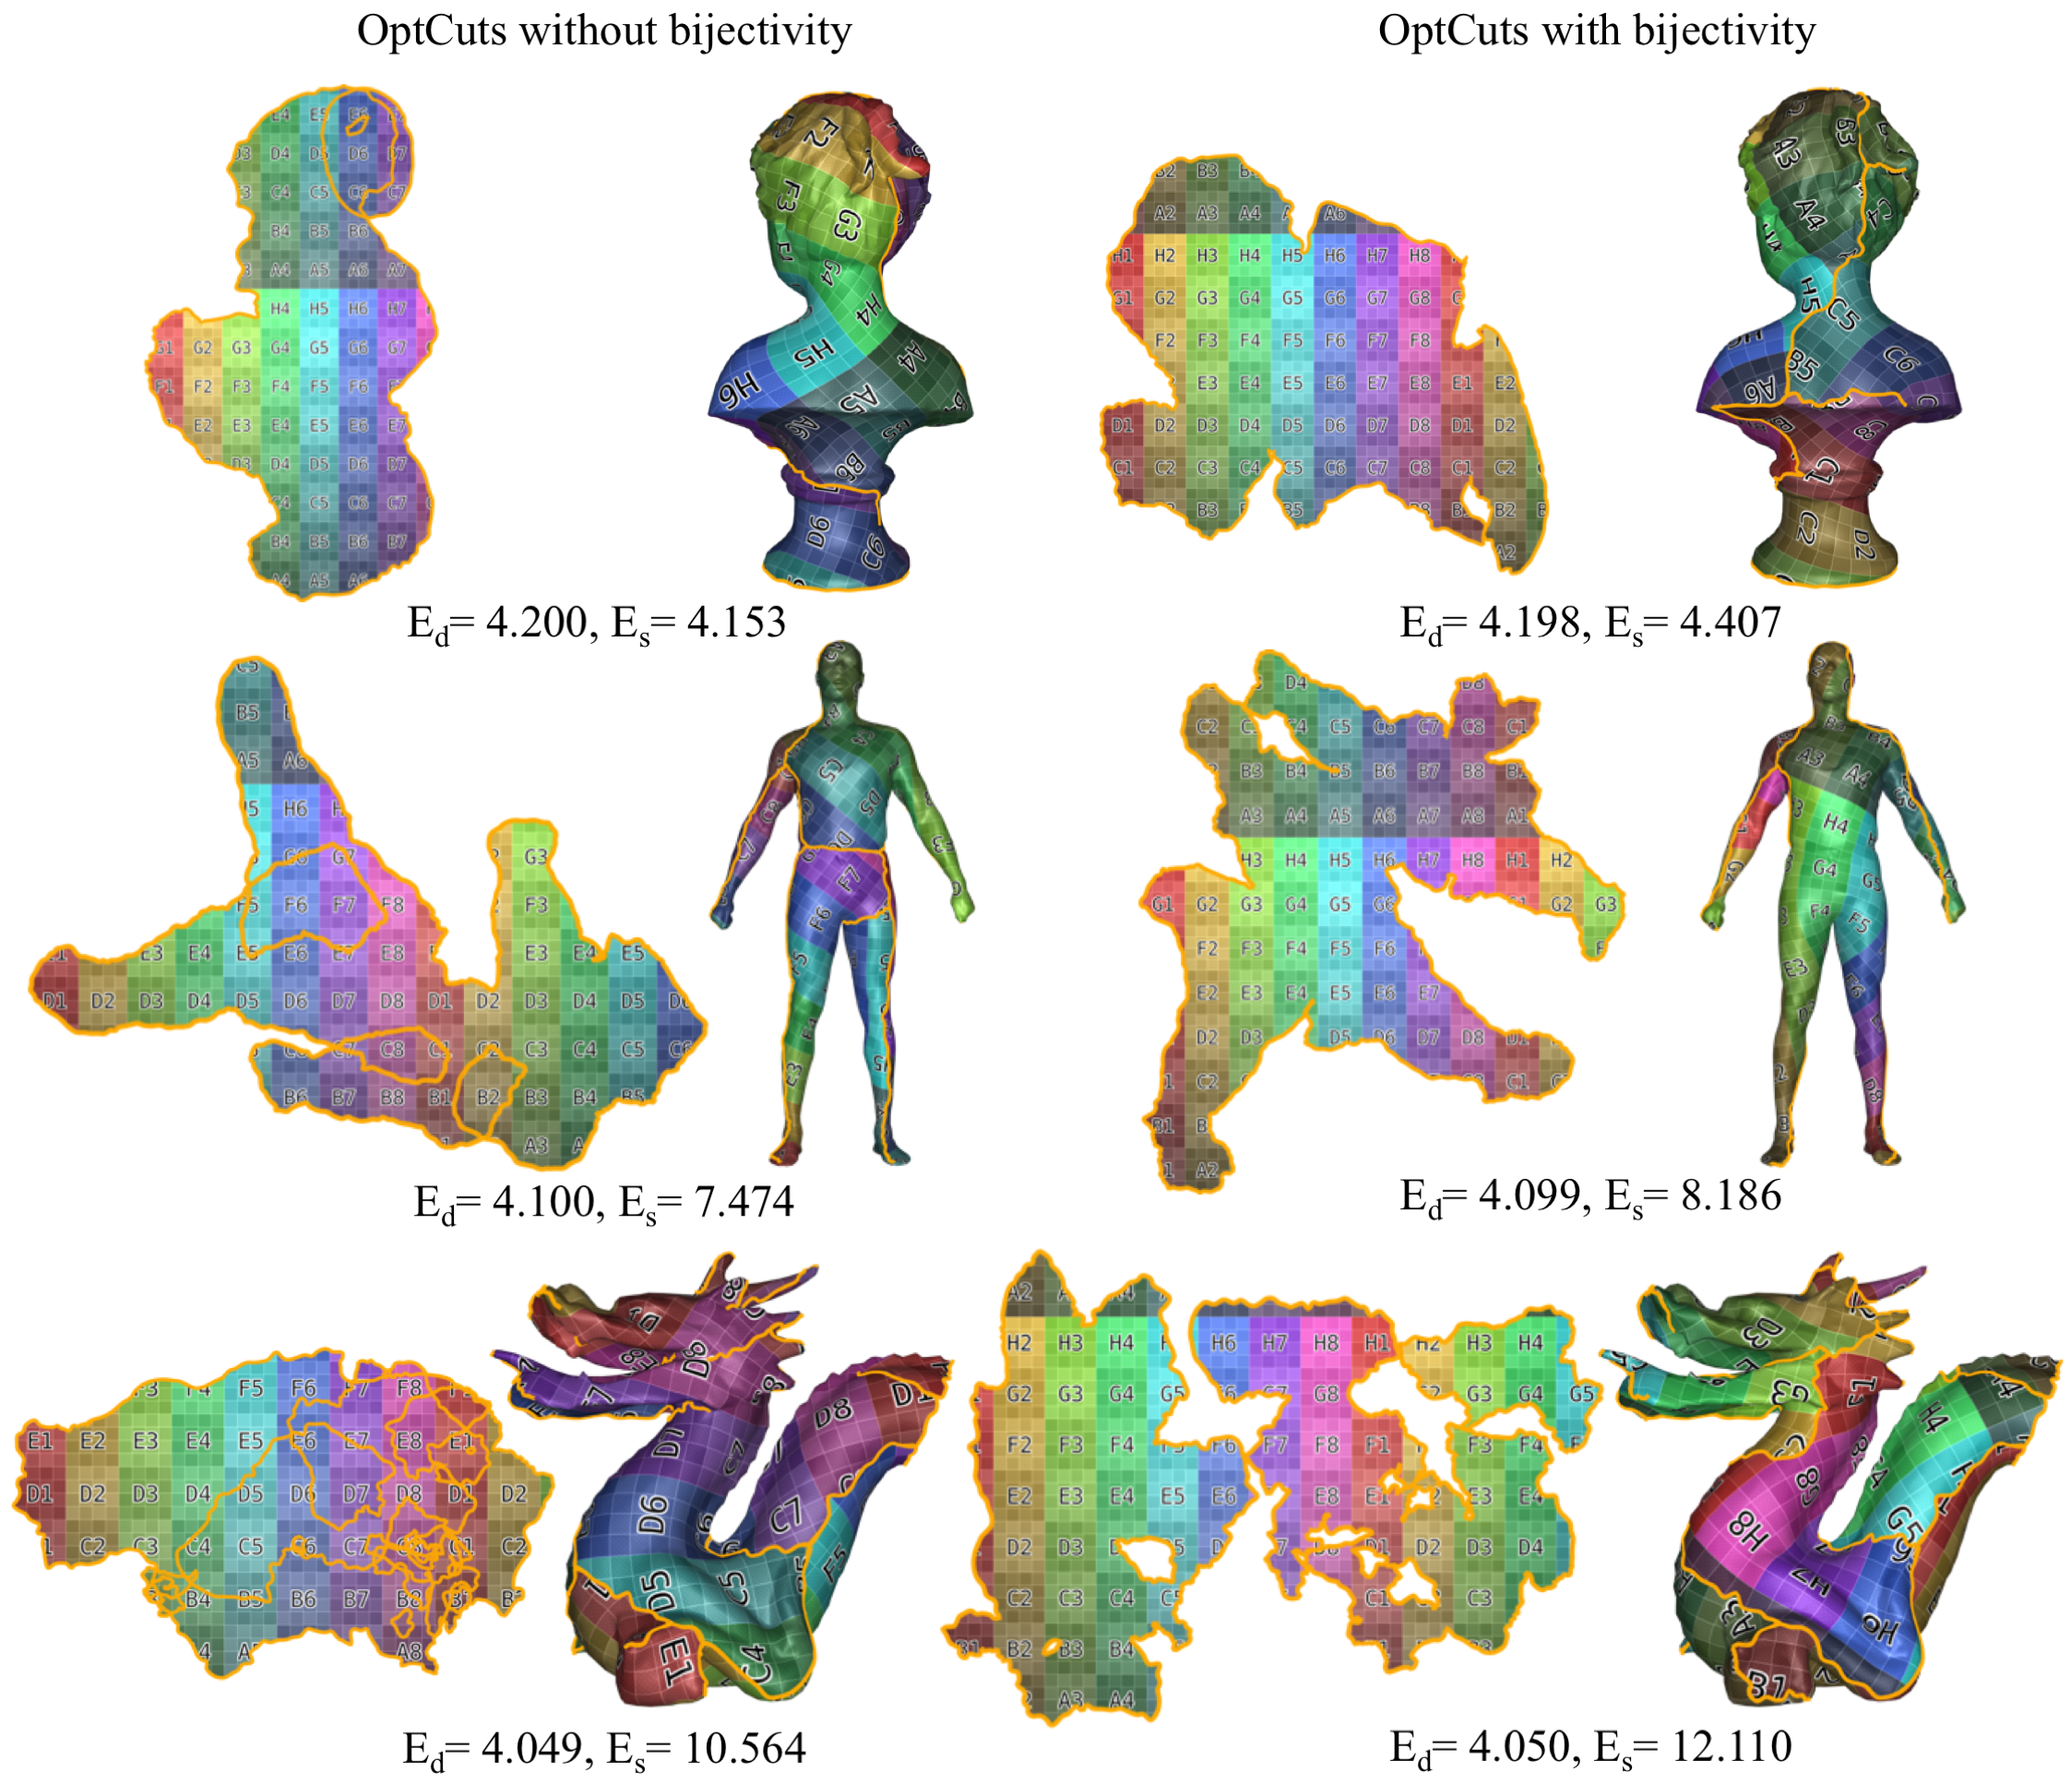
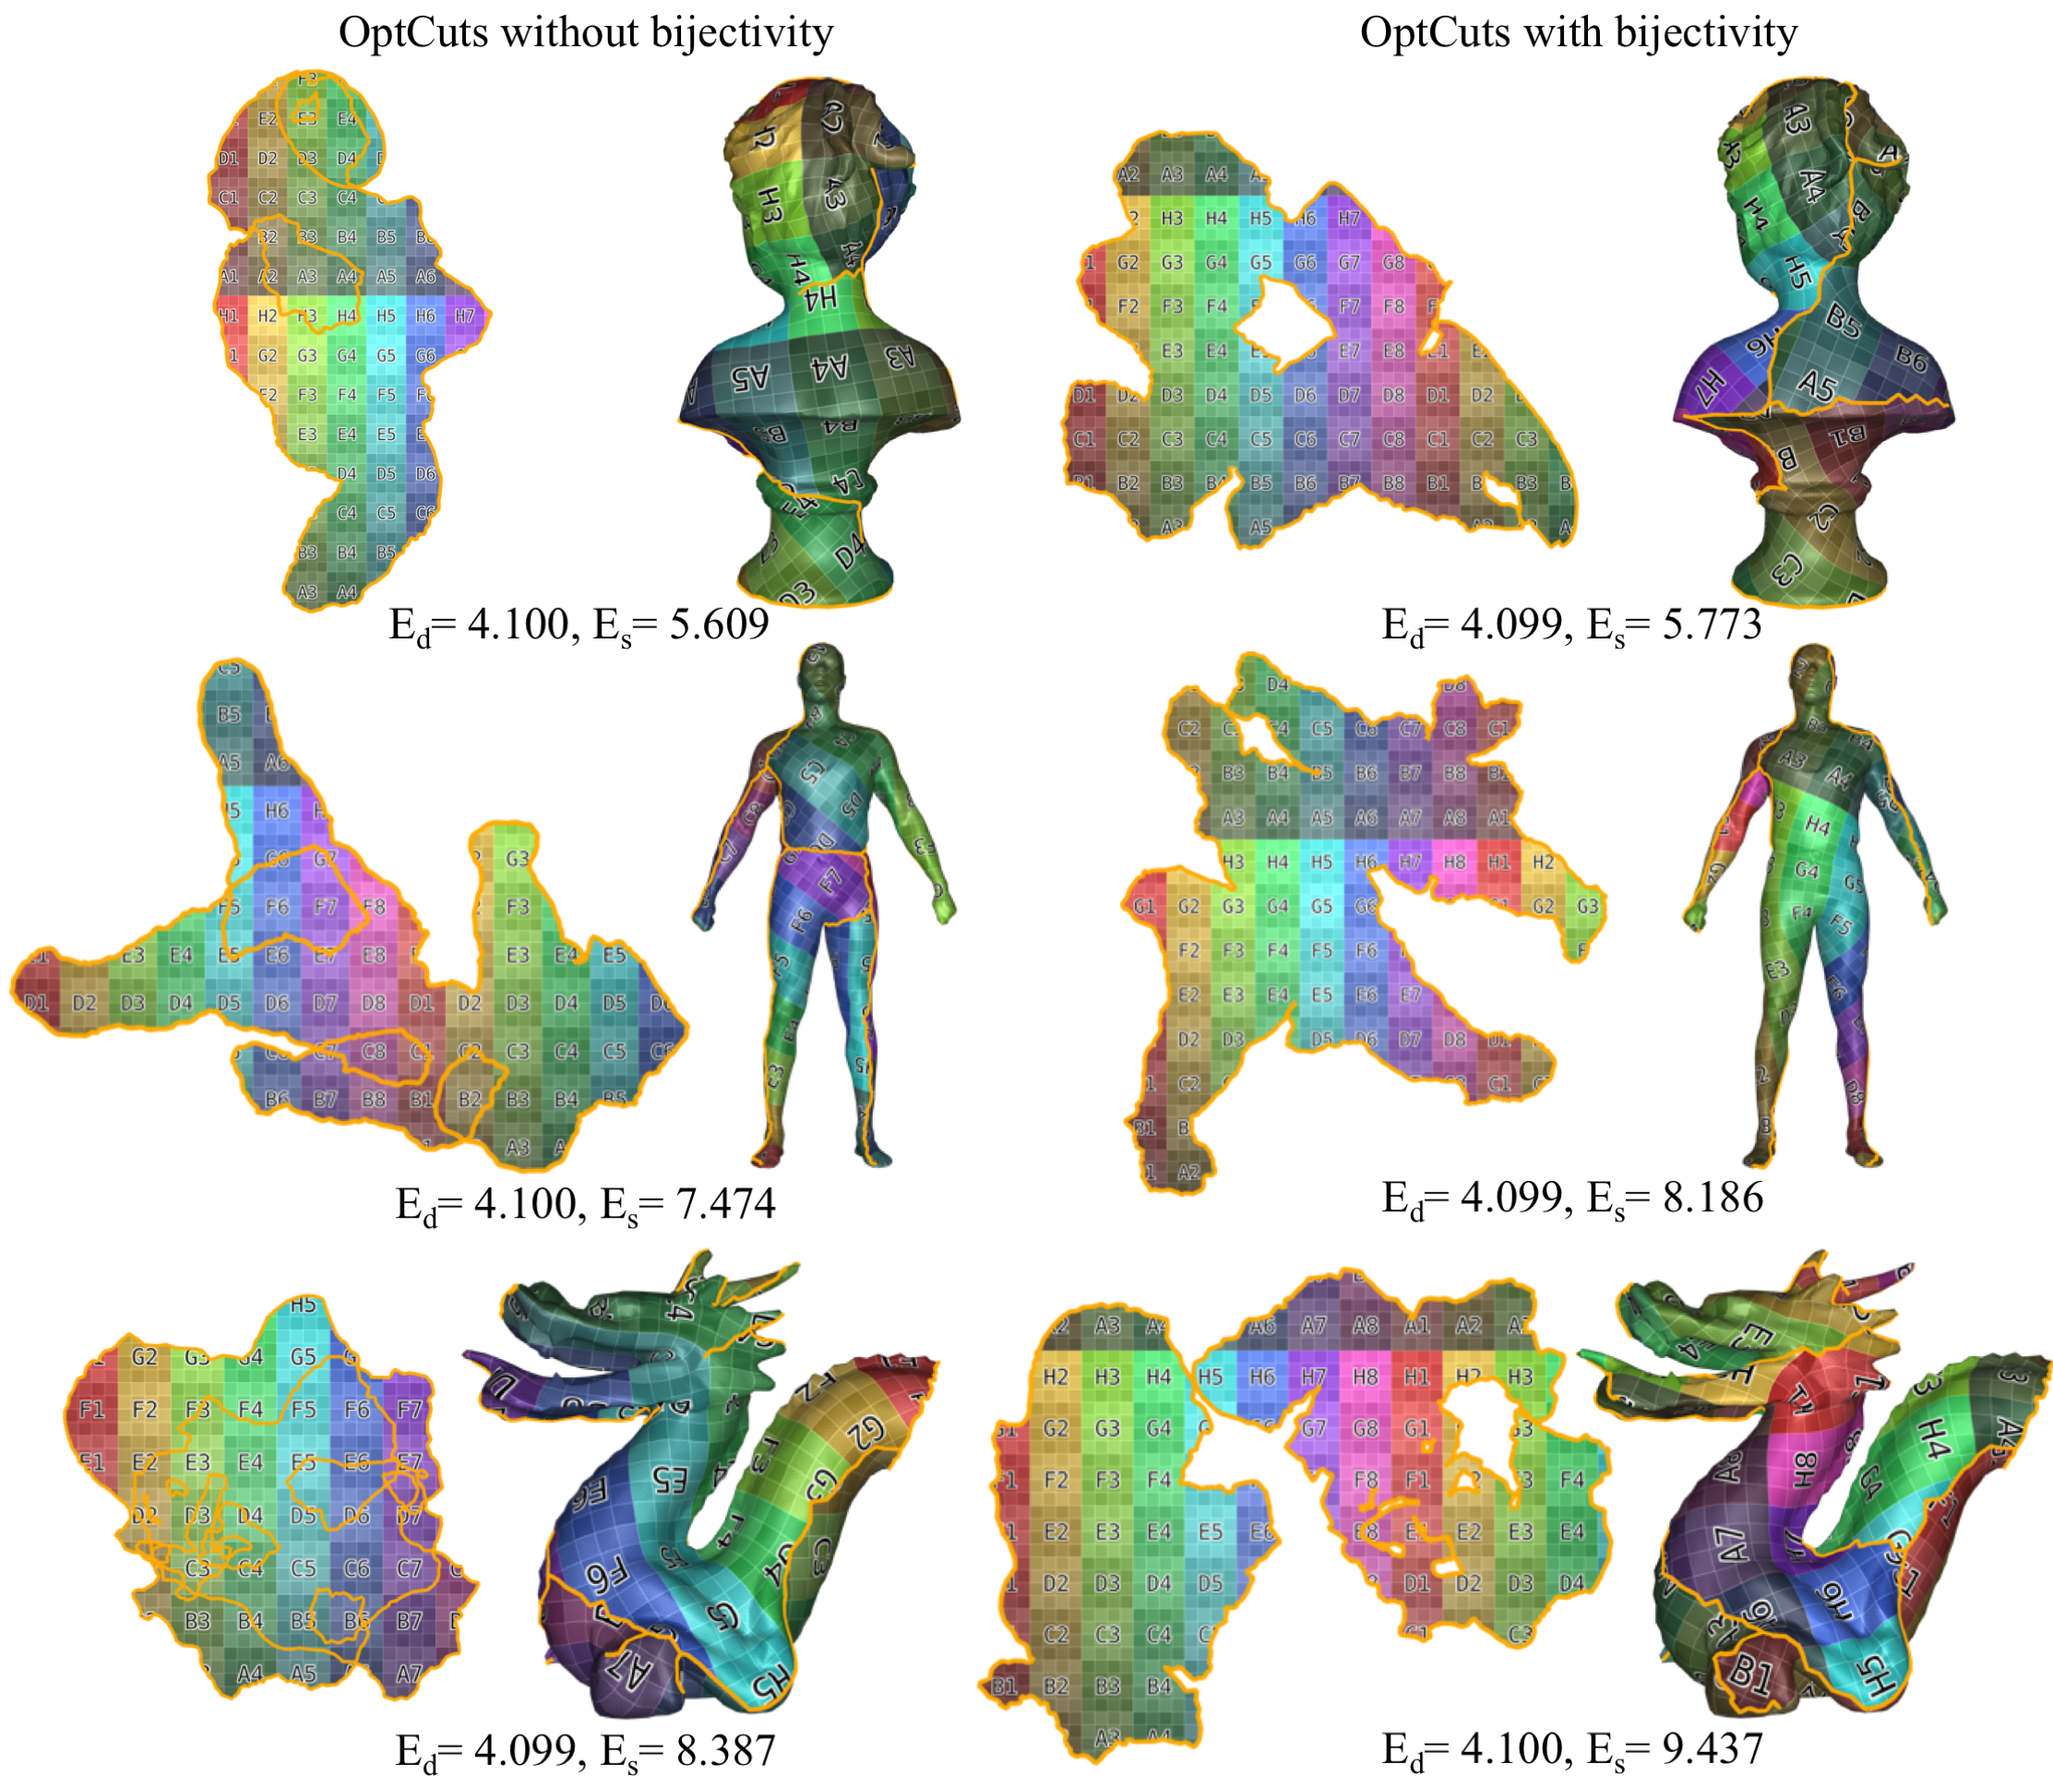
Updated figure 2 and table 2

diff --git a/paper/results.tex b/paper/results.tex
@@ -93,13 +93,18 @@ We evaluate our method with/without global bijectivity by running them on 70 inp
 \end{tabular}
 \end{table}
 
-\begin{figure*}[!h]
+\begin{figure}[!h]
 \centering
-\includegraphics[width=0.48\linewidth]{fig/our_impressive_results_left.png}
-\includegraphics[width=0.5\linewidth]{fig/our_impressive_results_right.png}
-\caption{UV maps generated by OptCuts with/without bijectivity with $b_d$ set to $4.2$, $4.1$, and $4.05$ from top to bottom.}
+\includegraphics[width=\linewidth]{fig/our_impressive_results_left.png}
+\caption{UV maps generated for a hand model by OptCuts with/without bijectivity with $b_d$ set to $4.2$, $4.1$, and $4.05$ from top to bottom.}
 \label{fig:our_impressive_results}
-\end{figure*}
+\end{figure}
+\begin{figure}[!h]
+\centering
+\includegraphics[width=\linewidth]{fig/our_impressive_results_right.png}
+\caption{UV maps generated for various models by OptCuts with/without bijectivity with $b_d = 4.1$.}
+\label{fig:our_impressive_results}
+\end{figure}
 %could also be bunny_i, statue_5, wooden_fish
 
 
@@ -113,15 +118,22 @@ Since AutoCuts does not intuitively support generating UV maps with a certain le
 
 \begin{table}[!h]
 \centering
-\caption{Comparisons between AutoCuts and OptCuts with/without bijectivity (WB/NB) on 69 input surfaces with $3749$ vertices per input in average. Even with bijectivity, we achieve shorter seam length with less running time.}
+\caption{Comparisons between AutoCuts and OptCuts with/without bijectivity on all input surfaces in our dataset. We use AutoCuts output distortion (range from $4.016$ to $4.187$) as $b_d$ in our method for each input. Even with bijectivity, we achieve shorter seam length with less running time.}
 \label{tb:comp_AutoCuts}
-\begin{tabular}{|c|ccc|ccc|}
+% \begin{tabular}{|c|ccc|ccc|}
+% \hline
+% \multirow{2}{*}{method} & \multicolumn{3}{c|}{$E_{s}$} & \multicolumn{3}{c|}{time (s)} \\ \cline{2-7} 
+%                         & avg      & min     & max      & avg      & min    & max       \\ \hline
+% AutoCuts                & 7.5789   & 1.2069  & 24.6816  & 499.9    & 4.0    & 2677.0    \\
+% OptCuts(B)               & 5.8114   & 0.8979  & 19.7405  & 304.0    & 6.4    & 1267.7     \\
+% OptCuts               & 5.3065   & 0.8992  & 16.1329  & 148.7    & 3.1    & 650.9    \\ \hline
+% \end{tabular}
+\begin{tabular}{|c|c|c|c|c|}
 \hline
-\multirow{2}{*}{method} & \multicolumn{3}{c|}{$E_{s}$} & \multicolumn{3}{c|}{time (s)} \\ \cline{2-7} 
-                        & avg      & min     & max      & avg      & min    & max       \\ \hline
-AutoCuts                & 7.5789   & 1.2069  & 24.6816  & 499.9    & 4.0    & 2677.0    \\
-OptCuts(B)               & 5.8114   & 0.8979  & 19.7405  & 304.0    & 6.4    & 1267.7     \\
-OptCuts               & 5.3065   & 0.8992  & 16.1329  & 148.7    & 3.1    & 650.9    \\ \hline
+method                   & bijectivity & avg. $E_{d}$ & avg. $E_{s}$ & avg. time (s) \\ \hline
+AutoCuts                 & N/A         & 4.074        & 7.5789       & 499.9         \\ \hline
+\multirow{2}{*}{OptCuts} & ON          & 4.073        & 5.8114       & 304.0         \\
+                         & OFF         & 4.073        & 5.3065       & 148.7         \\ \hline
 \end{tabular}
 \end{table}
 
